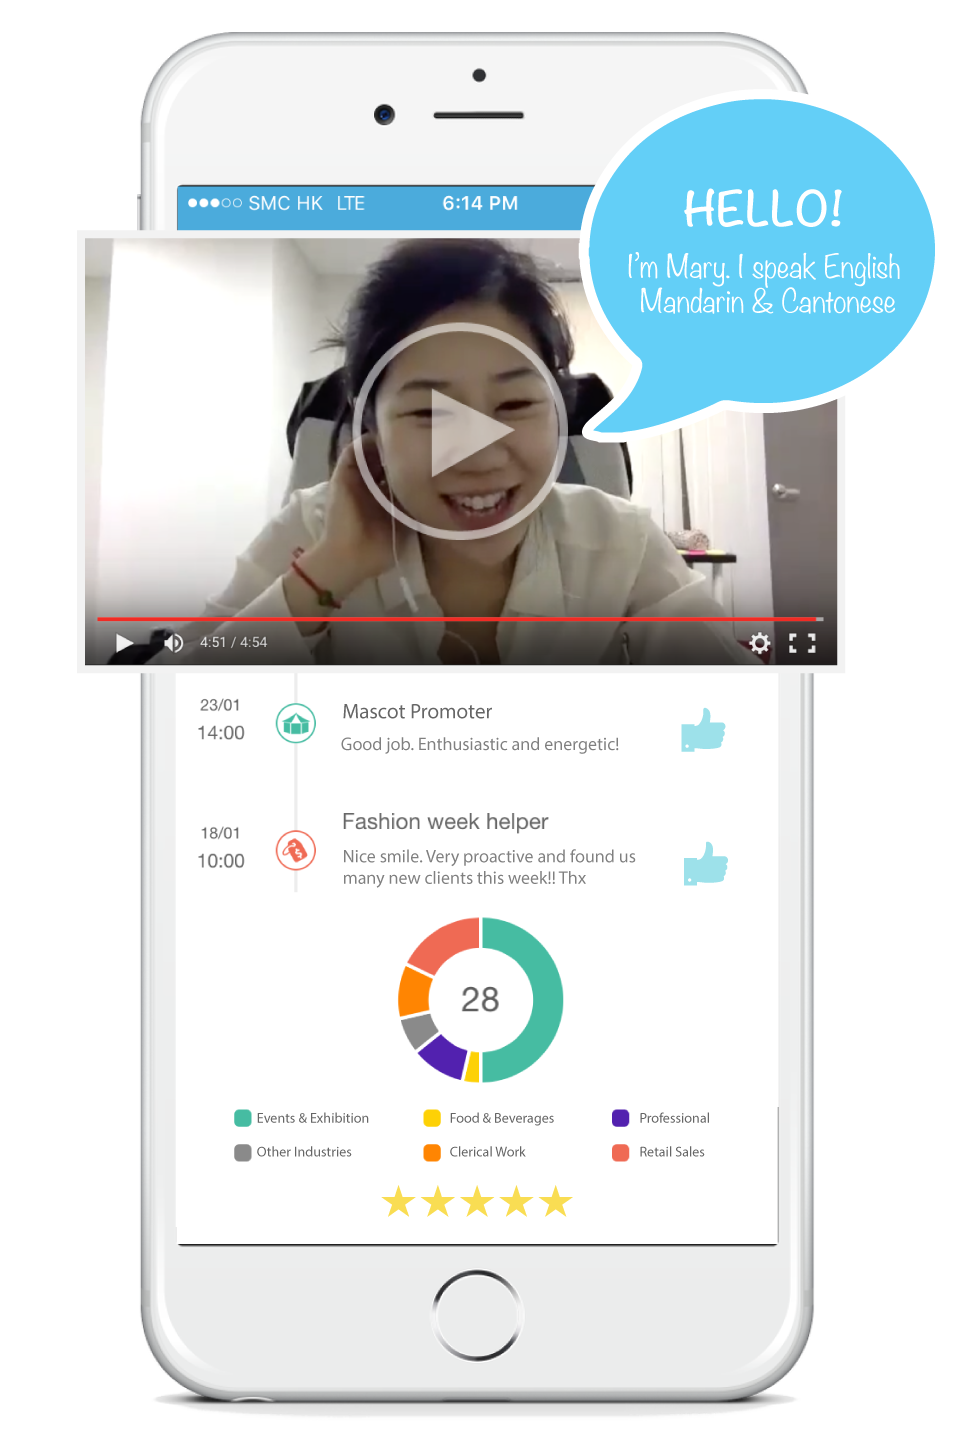
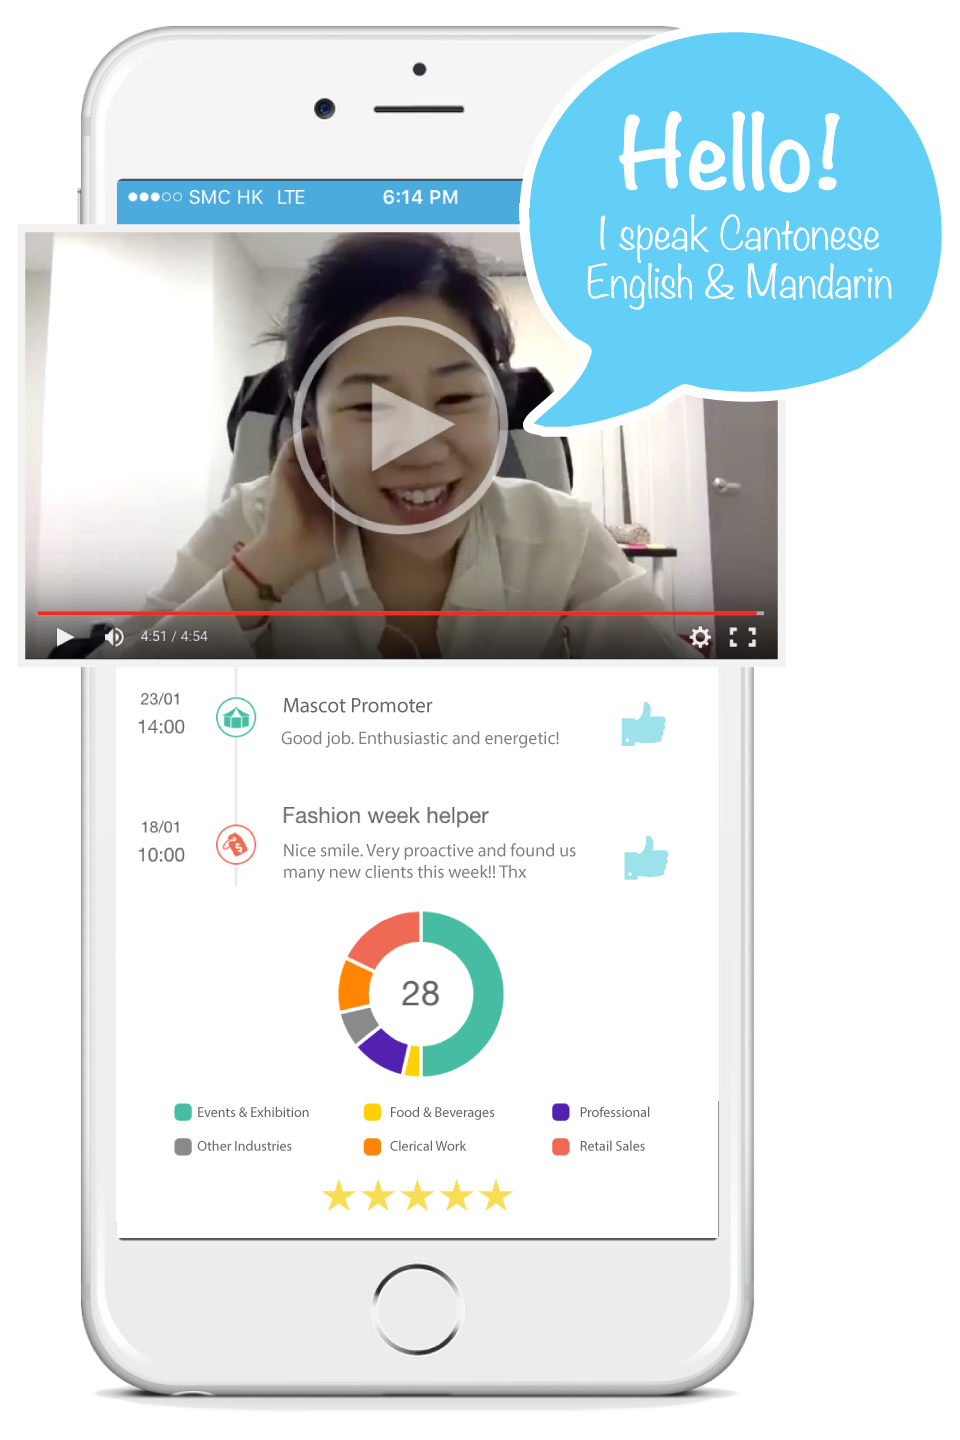
Change landing page image

diff --git a/index.html b/index.html
@@ -117,12 +117,12 @@
 														</a>
 													</li>
 													<li>
-														<a href="#">
+														<a href="http://blog.gogenieapp.com/">
 															Blog
 														</a>
 													</li>
 													<li>
-														<a href="#">
+														<a href="#footer">
 															Contact Us
 														</a>
 													</li>

diff --git a/css/custom.css b/css/custom.css
@@ -23,7 +23,7 @@ a:active {
 
 .screenshot-main > img {
   margin-top: 60px;
-  width: 70%;
+  width: 85%;
 }
 
 .landing-top h1 {
